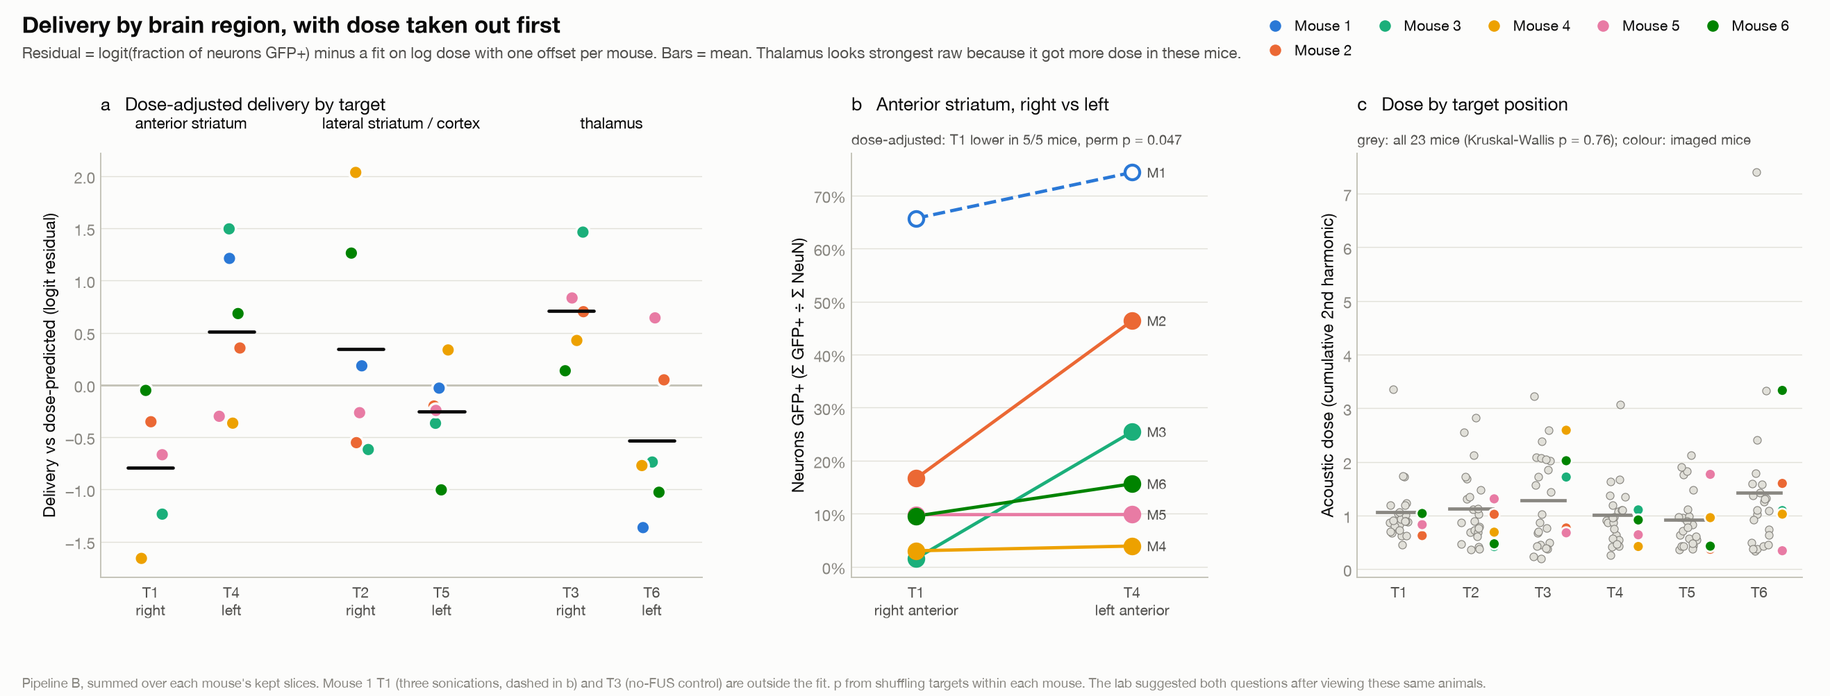
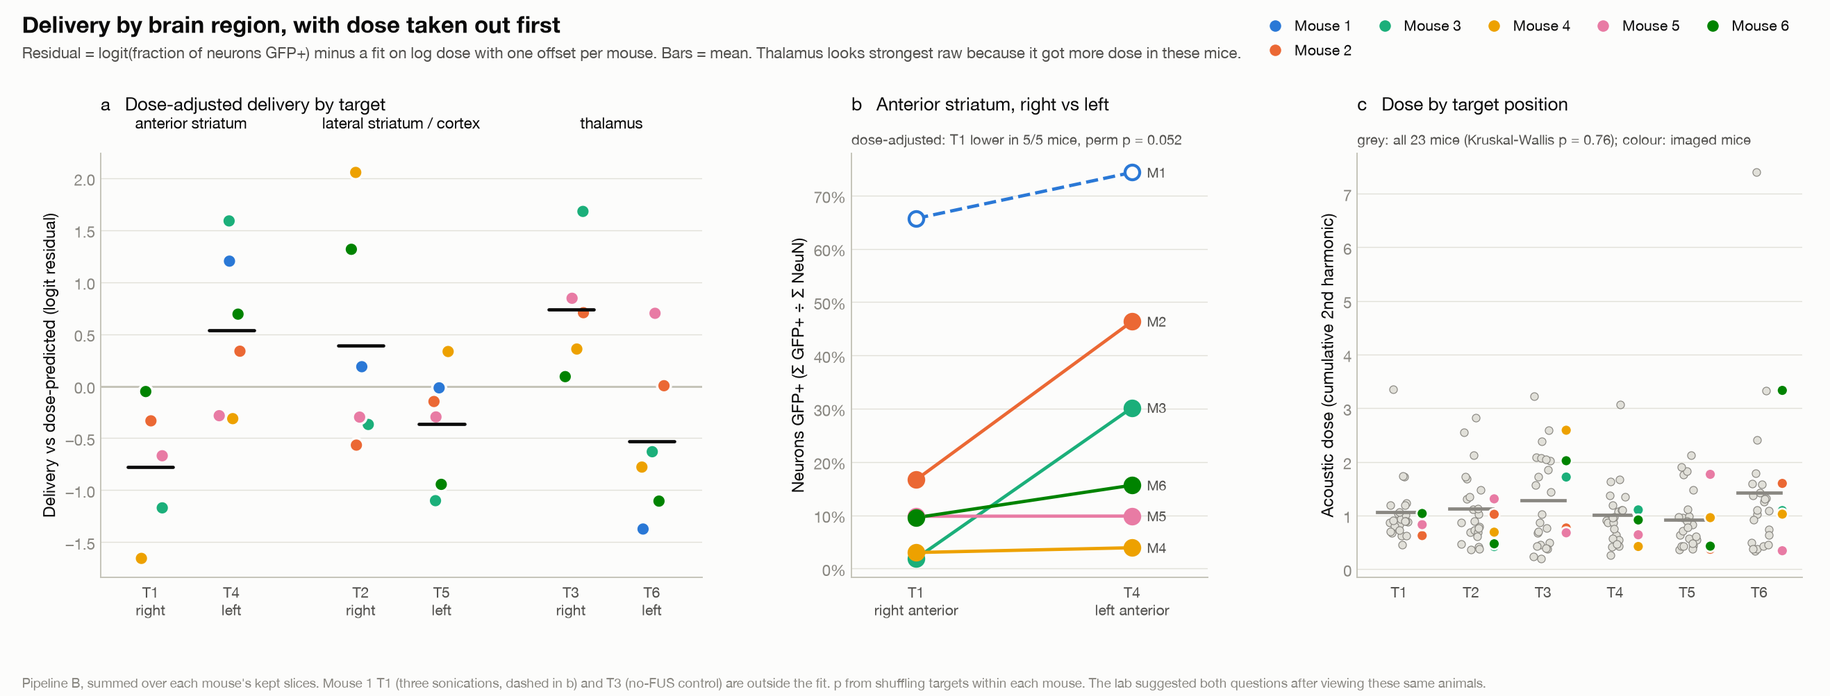
more changes

diff --git a/notes/current.md b/notes/current.md
@@ -1,4 +1,4 @@
-# Where the project is — updated 2026-11-17
+# Where the project is — updated 2026-11-17 (evening)
 
 Week ~10 of 13. This file is the moment-in-time picture; the durable method write-ups are in
 `docs/`.
@@ -12,19 +12,92 @@ side reproduces the lab's own numbers on all 138 targets of mice 2–24. The tis
 whole-slide scan into delivery per target, two ways in the same hand-placed ROIs: **pixel
 coverage (pipeline A)** and the **fraction of NeuN cells tagged GFP+ (pipeline B**, StarDist,
 GFP+ above 4.05× that slice's background). The two agree at r = 0.97 over 204 ROIs. Mice 1–6
-are oriented by hand, finetuned, measured and joined to dose: **35 sections, 36 targets**.
-Within every animal, higher-dose targets carry more delivery (ΣGFP+÷ΣNeuN vs dose r = +0.63 to
-+0.85 in all six). Pooled across animals that falls to r = +0.52, down from +0.66 at five mice,
-because Mouse 6's two highest doses do not deliver proportionally more. A pre-registered,
+are oriented by hand, finetuned, measured and joined to dose: **34 sections, 36 targets**
+(Mouse 3's `w10sl1_02_s0` was dropped as a bad slice on 11/17). Within every animal,
+higher-dose targets carry more delivery (ΣGFP+÷ΣNeuN vs dose r = +0.63 to +0.86 in all six).
+Pooled across animals that falls to r = +0.52 (ρ +0.65), down from +0.66 at five mice, because
+Mouse 6's two highest doses do not deliver proportionally more. **No single mouse drives the
+pooled result.** The one influential point is Mouse 6 T6, the highest dose in the study, and
+only under a straight-line fit (leave-one-out, Since 11/17 evening). A pre-registered,
 leave-one-mouse-out model comparison (`burst_ml/`) found that **per-burst acoustic detail adds
 nothing to the cumulative 2nd harmonic**: dose predicts delivery in an unseen mouse, but the
-mouse sets the level. Imaging is complete at
-the lab, so **six animals is probably the final n** unless mice 7–24 get stained. The
-remaining gaps are validation, not throughput: no hand count has scored pipeline B, Mice 1–2
-have no review ✓ on record, and the cross-animal measure is still unsettled.
+mouse sets the level. Imaging is complete at the lab, so **six animals is probably the final
+n** unless mice 7–24 get stained. The remaining gaps are validation, not throughput: **the
+11/17 re-finetune of the zones isn't measured yet**, no hand count has scored pipeline B, Mice
+1–2 have no review ✓ on record, and the cross-animal measure is still unsettled.
 
 **Deliverable plan: analysis finishes 2026-11-30; from 2026-12-01 the work is the journal-style
 write-up.**
+
+## Since 11/17 (evening)
+
+- **Mouse 3 `w10sl1_02_s0` excluded** as a bad slice (Andrew's call; `exclude = yes` with a
+  note in `data/section_orientation.csv`). It was low-signal and mostly added NeuN cells. Mouse
+  3 now has 4 kept sections, 34 in all. Re-ran `slices_dose_delivery.py`, `reference_target.py`,
+  `region_delivery.py` and `dose_delivery_by_region.py`. What moved:
+  - pooled ΣGFP+÷ΣNeuN r +0.52 (unchanged), ρ +0.63 → +0.65; GFP+ area r +0.56, ρ +0.67 → +0.66;
+  - Mouse 3 within-mouse r +0.85 → +0.86 (cells), +0.82 → +0.84 (pixels);
+  - T1 < T4 still 5/5 mice, but cells p 0.047 → **0.052**, pixels 0.083 → 0.071. T3 > T6 p 0.067
+    → 0.074. Thalamus at matched dose +0.07 (p 0.85).
+  - **`burst_ml/` was not re-run.** It reads `cumulative_dose_delivery.csv`, so its committed
+    results are for the 35-section data. Expect small shifts.
+- **Finetuning moved out of the ingest notebook** into `scripts/finetune_rois.py`: every kept
+  section of every mouse in one napari window (`--mouse N` for one). It prints what moved.
+- **Zones re-finetuned (11/17) but not yet measured.** Zones moved in 25 of 34 kept sections, by
+  up to 0.5 mm, most in Mice 1 and 2; sizes are unchanged. Mouse 5's `w11sl2_01_s2` was
+  finetuned for the first time. **Every number in this file still uses the old zones** (Open 0).
+- **Sections ranked for quality, all six mice** (`scripts/rank_sections.py` →
+  `data/section_quality.csv`, rank 1 = best, no notes yet). The window shows each section
+  straightened with its zones, so it needs orientation clicks: Mouse 6's five excluded sections
+  have none and couldn't be ranked. **The ranking wasn't blind**: the thumbnails show the GFP.
+- **Top-k sections** (`scripts/top_k_sections.py` → `results/histology/slices/top_k_sections.*`):
+  dose vs delivery using only each mouse's k best-ranked sections. Pooled r over 36 targets:
+
+  | k | Sections | A (pixels) | B (ΣGFP+÷ΣNeuN) |
+  |---|---|---|---|
+  | 1 | 6 | +0.68 | +0.55 |
+  | 2 | 12 | +0.67 | +0.55 |
+  | 3 | 18 | +0.62 | +0.46 |
+  | 6 | 27 | +0.55 | +0.46 |
+  | 12 (all) | 34 | +0.56 | +0.52 |
+
+  - Fewer, better sections read a little higher on pixels, but the 90% interval on r is about
+    ±0.15–0.2, so it's within noise.
+  - Mice disagree. Mouse 2 improves with more sections (B +0.57 → +0.82). Mouse 6 gets worse
+    (A +0.84 → +0.60). Mouse 4's pixel r drops from +0.91 to +0.45 when its 3rd and 4th
+    sections go in.
+  - Before using top-k as a rule: the ranking saw the GFP (circular), and k would be picked
+    after seeing this trace.
+- **Leave-one-out** (`scripts/leave_one_out.py` → `results/histology/slices/leave_one_out.*`).
+  - **No mouse is a clear outlier.** Pixels: dropping any one mouse moves r by at most 0.05
+    (0.53–0.61 vs 0.56), inside what dropping 6 random targets does (−0.07 to +0.10).
+  - Cells: only Mouse 6 stands out, r 0.52 → 0.69 without it (5% of random 6-target drops move
+    r that far). Its slope is about 0.2× the others' and it reads 21 points below their fit,
+    but it still ranks its own targets (r 0.63).
+  - Mice differ in level on cells (M1 +17, M2 +13, M3 −9, M6 −21 points against the others'
+    fit). That's the mouse effect, not an outlier.
+  - **One dose dominates: Mouse 6 T6** (3.33, the highest in the study; 17% GFP+). Cook's
+    distance 1.2 (A) and 2.0 (B), against a flag of 0.11. Dropping it alone: A 0.56 → 0.64, B
+    0.52 → 0.67. No other target moves r by more than 0.07.
+  - **It's a straight-line effect.** ρ barely moves without it (A 0.66 → 0.67, B 0.65 → 0.67),
+    and on log dose B goes 0.57 → 0.65. That is A15 again, which the pre-registered log-dose
+    model already handles. Quote ρ or the log-dose fit rather than linear r.
+- **Missing scans traced (lab sheet `docs/lab/IF_Images_Table.xlsx` vs the files).** The sheet
+  lists 9 more imaged sections for Mice 3–5 than we have (10/9/7 vs 7/5/5), and all 9 are the
+  first scan (`_01`) on their slide; the slide overviews arrived without them. Mapping rule
+  (inferred, not confirmed): sheet "section n" = scan `_0n`, or the nth section inside a
+  multi-section file. Mouse 3's `3.10.2_01` image data is present but misfiled inside
+  `_Image_Cntr_3.11.2_03_/` with no `.vsi` (header read: 16-bit, ~34,800 × 29,200 px);
+  `3.11.2_01` has a `.vsi` but no data. Re-downloads of Mice 3 and 4 were byte-identical to what
+  we had (zips deleted after checksum checks). Up to 8 usable sections if the lab re-uploads.
+  Ask on 11/18.
+- **The sheet's "ignore" verdicts are all applied.** It marks 4 sections "Not ok / Not great /
+  Not very good": 3 are excluded here, the 4th (Mouse 4 `4.11.2_01`) never arrived. We also
+  exclude 8 the sheet doesn't flag (our calls): Mouse 3 `w10sl1_02_s0`, `w10sl1_03_s0`; Mouse 5
+  `w11sl2_01_s3`; Mouse 6's five. Mouse 4's two "Pretty good – thalamus lost" sections are kept;
+  they are its two lowest-ranked, the ones that drop its pixel r in the top-k trace.
+- **Not yet looked at by a person:** `top_k_sections.png`, `leave_one_out.png`, and the
+  regenerated slices and region figures.
 
 ## Since 11/16
 
@@ -87,18 +160,18 @@ write-up.**
   against %GFP+ neurons, coloured by region. Human-checked 11/16. It shows the regions mixed
   throughout: thalamus sits further right (more dose), not higher at matched dose.
 
-### Results at six mice
+### Results at six mice (34 sections since 11/17 evening)
 
 | Pooled over 36 targets | r | ρ |
 |---|---|---|
-| ΣGFP+ ÷ ΣNeuN | **+0.52** (was +0.66 at five mice) | +0.63 |
-| GFP+ area ÷ animal mean | +0.56 | +0.67 |
+| ΣGFP+ ÷ ΣNeuN | **+0.52** (was +0.66 at five mice) | +0.65 |
+| GFP+ area ÷ animal mean | +0.56 | +0.66 |
 | GFP+ cells ÷ animal mean | +0.47 | +0.63 |
 
-Per animal, ΣGFP+÷ΣNeuN vs dose: M1 +0.75, M2 +0.82, M3 +0.85, M4 +0.64, M5 +0.75, M6 +0.63.
+Per animal, ΣGFP+÷ΣNeuN vs dose: M1 +0.75, M2 +0.82, M3 +0.86, M4 +0.64, M5 +0.75, M6 +0.63.
 Within-slice ρ is positive in 21/21 clear slices (A, median +0.60) and 20/21 (B, +0.71).
 
-**Why pooling got weaker:** without Mouse 6 the pooled r is +0.68. Mouse 6 ranks its own
+**Why pooling got weaker:** without Mouse 6 the pooled r is +0.69, and most of that is its T6 alone (leave-one-out). Mouse 6 ranks its own
 targets fine, but its two big doses (T3 2.02, T6 3.33) read 24.6% and 17.1% — below a straight
 line. That is **assumption A15**: delivery is being fitted as linear in dose, and it looks like
 it saturates. **Done since (Since 11/16):** a log-dose fit scored leave-one-mouse-out handles
@@ -114,11 +187,12 @@ pre-registration — say so if it goes in the write-up.
 - ✓ T1 < T4 on cells (9.6% vs 15.6%) despite T1 getting *more* dose (1.04 vs 0.92); a tie on pixels
 
 **Region, at six mice** (`results/histology/region/README.md`):
-- **No region effect at matched dose.** Thalamus +0.05, p 0.89 (it has the most raw delivery
+- **No region effect at matched dose.** Thalamus +0.07, p 0.85 (it has the most raw delivery
   and the most dose).
-- **T1 < T4 holds in 5/5 mice**, both measures, but weaker than at five mice: cells p 0.047
-  (was 0.018), pixels p 0.083 (was 0.034). Mouse 5's new section narrowed its gap.
-- **New**: T3 (right thalamus) > T6 (left) in 5/5 mice, p 0.067. So it is not "the right side
+- **T1 < T4 holds in 5/5 mice**, both measures, but weaker than at five mice: cells p 0.052
+  (0.047 before Mouse 3's bad slice was dropped; 0.018 at five mice), pixels p 0.071 (0.034 at
+  five mice). Mouse 5's new section narrowed its gap.
+- **New**: T3 (right thalamus) > T6 (left) in 5/5 mice, p 0.074. So it is not "the right side
   delivers less" — T1 vs T4 is specific.
 - Still confounded: T1 is always fired first, so side and firing order can't be separated.
 
@@ -180,18 +254,27 @@ pre-registration — say so if it goes in the write-up.
 | `src/fus/extract.py` | Python port of `nt_ExtractHarmonicData.m`. All 138 targets of mice 2–24 match the lab's sheet to 4 dp (`docs/acoustic-extraction.md`) |
 | `src/fus/histology.py` | `.vsi` → per-target GFP coverage. ROI r = 1.0 template mm (1.74 mm diameter on tissue). `export --prefix/--series` |
 | `src/fus/orientation.py` | napari: `annotate` (centre, front, notch side) and `review` (✓/✗). Each window writes only its own fields |
-| `src/fus/rois.py` + `data/roi_locations.csv` | Hand-finetuned T1–T6 shapes per section. **All kept sections of Mice 1–6 finetuned** |
+| `src/fus/rois.py` + `data/roi_locations.csv` | Hand-finetuned T1–T6 shapes per section. **All kept sections of Mice 1–6 finetuned**, re-finetuned 11/17 (not yet measured) |
 | `data/section_orientation.csv` | Clicks for all 36 sections of Mice 1–6. Review ✓ on every kept section of Mice 3–6; **none on record for Mice 1–2** (see Open 1) |
 | `src/fus/cells.py` | **Pipeline B**: per-ROI cell count and GFP+ fraction. Run on every kept section of Mice 1–6; ~1–1.5 min per section on `segmentation_alpha/.venv-stardist-gpu` |
 | `src/fus/archive.py` | Reads recordings straight out of `data/acoustic/US_Data.zip` (48.6 GB, all 24 mice). **The only copy — don't unpack it** |
 | `src/fus/reconstruct.py` | Loose 3D stack of one animal: clicks for alignment, atlas spacing, Gaussian depth blending |
 | `notebooks/ingest_new_histology.ipynb` | Per-animal workflow: export → orient → measure → review |
 | `scripts/finetune_rois.py` | napari: move and resize T1–T6 on every kept section of every mouse in one window (`--mouse N` for one); writes `data/roi_locations.csv` |
+| `scripts/rank_sections.py` + `data/section_quality.csv` | Qt window: rank one mouse's sections by quality from straightened thumbnails with zones. All six mice ranked 11/17. Only `top_k_sections.py` reads it |
+| `scripts/top_k_sections.py`, `scripts/leave_one_out.py` | Sensitivity of the pooled result: each mouse's top-k ranked sections; drop each mouse, then each target |
 | `tests/` | 37 tests, passing |
 | `burst_ml/` | Pre-registered burst-level models. Own environment `burst_ml/.venv` (jax, numpyro). Per-burst cache in `burst_ml/cache/` (git-ignored; rebuild with `.venv/bin/python -m bml.cache` from `burst_ml/`, reads the zip). Full run `.venv/bin/python -m bml.run` (~20 min); 55 tests |
 
 ## Open — blocking or slowing
 
+0. **Re-measure with the 11/17 zones** (25 of 34 sections changed).
+   - Pipeline A: the notebook's Measure cell, once per mouse. `fus.histology measure` ignores
+     finetuned shapes (see Traps).
+   - Pipeline B: `fus.cells --mouse N --section …` on the changed sections, ~25–40 min.
+   - Then `slices_dose_delivery` → `reference_target` → `region_delivery` →
+     `dose_delivery_by_region` → `top_k_sections` → `leave_one_out` → `burst_ml` (`bml.run`,
+     ~20 min), and update every quoted number.
 1. **Review verdicts.** Every kept section of Mice 3–6 is reviewed ✓ (Mice 5–6 recorded
    11/17; all placements correct). Mice 1 and 2 have no verdict on record (4 and 12 kept
    sections). The analysis only drops sections marked *wrong*, so they are included either way.
@@ -200,7 +283,10 @@ pre-registration — say so if it goes in the write-up.
    would find. **Nothing else validates the delivery measure.**
 3. **Cross-animal normalisation is still unsettled.** ΣGFP+÷ΣNeuN is the candidate (needs no
    rescale), but it has not been chosen formally. Decide it before the write-up, not during.
-4. **Why Mouse 6's five sections were excluded** isn't recorded anywhere.
+   Leave-one-out adds a second choice: linear r swings on one point (Mouse 6 T6); ρ and the
+   log-dose fit don't.
+4. **Why Mouse 6's five sections were excluded** isn't recorded anywhere. They have no clicks,
+   so the ranking window can't show them, and `section_quality.csv` has no notes yet.
 5. **Section order, spacing and starting depth** are still assumed (filename order, 250 µm).
    Asked 10/20 and 11/01; ask Josh directly.
 6. **FITC-only signal at Mouse 1 T6.** Unexplained.
@@ -227,9 +313,17 @@ Computed but **not yet scripted or written into `docs/`**. Re-derive before citi
   - 37 pairs of targets within 15% of each other's dose but at least 1.5× apart in burst count.
 
   So the ρ null isn't from a lack of variation.
+- **Within-mouse (repeated-measures) correlation, 35 sonicated targets** (11/17 evening): log
+  dose vs logit ΣGFP+÷ΣNeuN r +0.67 (df 28, p 6e-5); vs log GFP+ area r +0.60 (p 4e-4). Pooled
+  without removing mouse levels: +0.61 and +0.47. Mouse level is 34% (cells) and 45% (pixels)
+  of the variance.
 
 ## Traps for whoever picks this up
 
+- **`python -m fus.histology measure` ignores finetuned shapes.** It measures plain template
+  circles, and the `AGENTS.md` command writes to `mouseNN_template_slots.csv`, the file that
+  holds the finetuned results. Measure through the notebook's Measure cell until the CLI reads
+  `data/roi_locations.csv`.
 - **Template-placed sections leave `target` blank** in `mouseNN_template_slots.csv`. Map slot →
   target from the notch click. This silently cost a slice once (fixed 11/16).
 - **The spreadsheet's Mouse 1 rows 3–6 are rotated by one run.** Read doses from the recordings.
@@ -251,7 +345,8 @@ Computed but **not yet scripted or written into `docs/`**. Re-derive before citi
 ## Next steps, in the order I would do them
 
 **Before the 11/18 meeting:**
-- Look at the four `burst_ml/results/*.png` figures before showing them.
+- Look at the figures before showing them: the four `burst_ml/results/*.png`, and
+  `results/histology/slices/top_k_sections.png` and `leave_one_out.png`.
 - Meeting questions:
   - the missing Mouse 5 well 10 sections, and why the QC sheet lists more sections than we have;
   - section order, spacing and depth from Josh;
@@ -260,14 +355,22 @@ Computed but **not yet scripted or written into `docs/`**. Re-derive before citi
   - per-animal records that might explain the mouse effect (weight, microbubble lot, injection
     timing);
   - whether intensity in the third suggestion meant drive pressure or emitted harmonic;
-  - which cross-animal measure to use;
+  - which cross-animal measure to use, and whether to quote ρ / the log-dose fit rather than
+    linear r;
+  - whether choosing sections by a quality ranking is acceptable (if so: ranked blind to the
+    GFP, with k fixed in advance);
+  - Andrew's idea: total delivery over each slice, not only inside the ROIs;
   - co-authorship and target journal.
 
 **Analysis to finish by 11/30:**
-1. **Hand count** (open 2) — the only validation of pipeline B.
-2. Decide the cross-animal measure and write it into the scripts as the default.
-3. Freeze the dataset with a git tag and re-run every script from scratch, `burst_ml` included.
-4. Optional: re-run the 15-feature screen at 35 targets. `burst_ml` already covers bands,
+1. **Re-measure with the 11/17 zones** (open 0) and re-run everything downstream.
+2. **Hand count** (open 2) — the only validation of pipeline B.
+3. Decide the cross-animal measure, and whether the headline is ρ / the log-dose fit rather than
+   linear r. Write it into the scripts as the default.
+4. Decide the section rule: every kept section, or top-k by a quality ranking done blind to the
+   GFP with k fixed first.
+5. Freeze the dataset with a git tag and re-run every script from scratch, `burst_ml` included.
+6. Optional: re-run the 15-feature screen at 35 targets. `burst_ml` already covers bands,
    timing and per-burst power, so expect nothing new.
 
 **From 12/01: write-up.** Draft journal manuscript by end of reading period. On current data

diff --git a/results/histology/region/README.md b/results/histology/region/README.md
@@ -4,32 +4,32 @@ Generated by `scripts/region_delivery.py`; do not edit by hand. Mice 1-6; 34 sin
 
 Regions are the planned targets from the lab's mask: T1/T4 anterior striatum, T2/T5 lateral striatum and cortex, T3/T6 thalamus; T1-T3 on the animal's right.
 
-**Method.** Delivery is put on a logit scale and fitted against log dose with one offset per mouse and a common slope (cells: 1.41, pixels: 1.04). The residual is delivery above or below what that mouse's dose-response predicts. p-values shuffle target labels within each mouse (20,000 permutations), so differences between animals can't drive them.
+**Method.** Delivery is put on a logit scale and fitted against log dose with one offset per mouse and a common slope (cells: 1.47, pixels: 1.10). The residual is delivery above or below what that mouse's dose-response predicts. p-values shuffle target labels within each mouse (20,000 permutations), so differences between animals can't drive them.
 
 ## By region
 
 | Region | Targets | Mean dose | Raw GFP+ neurons | Raw pixel coverage | Residual (cells) | Residual (pixels) |
 |---|---|---|---|---|---|---|
-| anterior striatum | 11 | 0.89 | 19.7% | 21.5% | -0.08 | -0.21 |
-| lateral striatum / cortex | 12 | 0.82 | 21.0% | 25.3% | +0.04 | +0.11 |
-| thalamus | 11 | 1.50 | 27.0% | 31.9% | +0.03 | +0.09 |
+| anterior striatum | 11 | 0.89 | 20.1% | 22.1% | -0.06 | -0.20 |
+| lateral striatum / cortex | 12 | 0.82 | 20.9% | 25.1% | +0.01 | +0.09 |
+| thalamus | 11 | 1.50 | 27.9% | 32.7% | +0.04 | +0.10 |
 
 ## Tests
 
 | Contrast | Measure | Mean residual difference | Right side lower in | perm p | Per mouse |
 |---|---|---|---|---|---|
-| anterior striatum vs other regions | cells | -0.12 |  | 0.738 |  |
-| lateral striatum / cortex vs other regions | cells | +0.07 |  | 0.844 |  |
-| thalamus vs other regions | cells | +0.05 |  | 0.891 |  |
-| T1 (right) - T4 (left) | cells | -1.17 | 5/5 | 0.047 | M2 -0.71; M3 -2.73; M4 -1.29; M5 -0.37; M6 -0.74 |
-| T2 (right) - T5 (left) | cells | +0.59 | 3/6 | 0.288 | M1 +0.21; M2 -0.35; M3 -0.25; M4 +1.70; M5 -0.02; M6 +2.27 |
-| T3 (right) - T6 (left) | cells | +1.08 | 0/5 | 0.067 | M2 +0.65; M3 +2.20; M4 +1.20; M5 +0.19; M6 +1.16 |
-| anterior striatum vs other regions | pixels | -0.31 |  | 0.298 |  |
-| lateral striatum / cortex vs other regions | pixels | +0.17 |  | 0.553 |  |
-| thalamus vs other regions | pixels | +0.13 |  | 0.656 |  |
-| T1 (right) - T4 (left) | pixels | -0.88 | 5/5 | 0.083 | M2 -0.69; M3 -2.14; M4 -1.02; M5 -0.43; M6 -0.10 |
-| T2 (right) - T5 (left) | pixels | +0.50 | 3/6 | 0.289 | M1 +0.50; M2 -0.39; M3 -0.67; M4 +1.72; M5 -0.08; M6 +1.89 |
-| T3 (right) - T6 (left) | pixels | +0.83 | 0/5 | 0.101 | M2 +0.41; M3 +1.85; M4 +0.70; M5 +0.08; M6 +1.12 |
+| anterior striatum vs other regions | cells | -0.09 |  | 0.811 |  |
+| lateral striatum / cortex vs other regions | cells | +0.02 |  | 0.957 |  |
+| thalamus vs other regions | cells | +0.07 |  | 0.852 |  |
+| T1 (right) - T4 (left) | cells | -1.18 | 5/5 | 0.052 | M2 -0.67; M3 -2.76; M4 -1.34; M5 -0.39; M6 -0.74 |
+| T2 (right) - T5 (left) | cells | +0.75 | 2/6 | 0.193 | M1 +0.20; M2 -0.42; M3 +0.73; M4 +1.72; M5 -0.00; M6 +2.26 |
+| T3 (right) - T6 (left) | cells | +1.10 | 0/5 | 0.074 | M2 +0.70; M3 +2.31; M4 +1.13; M5 +0.14; M6 +1.20 |
+| anterior striatum vs other regions | pixels | -0.29 |  | 0.354 |  |
+| lateral striatum / cortex vs other regions | pixels | +0.14 |  | 0.632 |  |
+| thalamus vs other regions | pixels | +0.14 |  | 0.654 |  |
+| T1 (right) - T4 (left) | pixels | -0.95 | 5/5 | 0.071 | M2 -0.67; M3 -2.48; M4 -1.06; M5 -0.44; M6 -0.10 |
+| T2 (right) - T5 (left) | pixels | +0.62 | 2/6 | 0.203 | M1 +0.50; M2 -0.45; M3 +0.10; M4 +1.74; M5 -0.06; M6 +1.89 |
+| T3 (right) - T6 (left) | pixels | +0.90 | 0/5 | 0.090 | M2 +0.45; M3 +2.21; M4 +0.65; M5 +0.04; M6 +1.15 |
 
 ## Dose by position
 
@@ -46,8 +46,8 @@ Over mice 2-24 dose doesn't differ by position (Kruskal-Wallis p = 0.76), but in
 
 ## Reading
 
-- **Thalamus is strongest raw, not after dose.** Its targets got the most dose here (mean 1.50 vs 0.89 and 0.82); dose-adjusted, thalamus vs the rest is +0.05 (p 0.89).
-- **T1 (right anterior striatum) is lower than T4 (left) at matched dose**, in 5/5 mice on cells (p 0.047) and 5/5 on pixels (p 0.083). It is not a whole-right-side effect: T2-T5 goes both ways, and T3 (right thalamus) reads *higher* than T6 in 5/5 mice on cells (p 0.067).
+- **Thalamus is strongest raw, not after dose.** Its targets got the most dose here (mean 1.50 vs 0.89 and 0.82); dose-adjusted, thalamus vs the rest is +0.07 (p 0.85).
+- **T1 (right anterior striatum) is lower than T4 (left) at matched dose**, in 5/5 mice on cells (p 0.052) and 5/5 on pixels (p 0.071). It is not a whole-right-side effect: T2-T5 goes both ways, and T3 (right thalamus) reads *higher* than T6 in 5/5 mice on cells (p 0.074).
 
 ## Caveats
 

diff --git a/README.md b/README.md
@@ -33,7 +33,7 @@ That is the whole premise: where the acoustic signal says the BBB opened, the AA
 
 ## Six animals, pooled
 
-Six brains are imaged and measured (Mice 1–6, 35 sections across the six animals). Each target's delivery is summed over every section of its animal, then plotted against acoustic dose (cumulative second harmonic) for all 36 targets on one axis:
+Six brains are imaged and measured (Mice 1–6, 34 sections across the six animals). Each target's delivery is summed over every section of its animal, then plotted against acoustic dose (cumulative second harmonic) for all 36 targets on one axis:
 
 <p align="center">
   <img src="results/histology/slices/cumulative_pooled.png" alt="Acoustic dose against cumulative GFP delivery for 36 targets from six mice, three delivery measures side by side" width="100%">
@@ -41,11 +41,11 @@ Six brains are imaged and measured (Mice 1–6, 35 sections across the six anima
 
 | Delivery measure (36 targets, 6 mice) | Pearson r with dose | Spearman ρ |
 |---|---|---|
-| GFP+ fraction of neurons, ΣGFP+ ÷ ΣNeuN | **+0.52** | +0.63 |
-| GFP+ area ÷ the animal's mean target | +0.56 | +0.67 |
+| GFP+ fraction of neurons, ΣGFP+ ÷ ΣNeuN | **+0.52** | +0.65 |
+| GFP+ area ÷ the animal's mean target | +0.56 | +0.66 |
 | GFP+ cells ÷ the animal's mean target | +0.47 | +0.63 |
 
-Within each animal the relationship is steadier than the pooled number suggests: GFP+ fraction of neurons against dose gives r = +0.63 to +0.85 in every one of the six mice. Pooling is weaker because animals differ in overall level and because delivery flattens at the highest doses (Mouse 6's T6, dose 3.33, reads 17%). Adding Mouse 6 moved the pooled fraction r from +0.66 (five mice) to +0.52.
+Within each animal the relationship is steadier than the pooled number suggests: GFP+ fraction of neurons against dose gives r = +0.63 to +0.86 in every one of the six mice. Pooling is weaker because animals differ in overall level and because delivery flattens at the highest doses (Mouse 6's T6, dose 3.33, reads 17%). Adding Mouse 6 moved the pooled fraction r from +0.66 (five mice) to +0.52. No single mouse drives the pooled number: dropping any one moves the pixel r by at most 0.05. The most influential single point is that Mouse 6 T6, and only for a straight-line fit; the rank correlation barely changes without it ([`leave_one_out.png`](results/histology/slices/leave_one_out.png)).
 
 Within single sections the pattern holds too: the higher-dose targets carry more GFP in 21 of 21 sections with clear signal under the pixel measure (median ρ +0.60), and 20 of 21 under the cell count (+0.71). Which cross-animal measure to use is not settled yet, and the p-values treat targets as independent even though they come from six animals. Full tables and caveats: [`results/histology/slices/README.md`](results/histology/slices/README.md).
 
